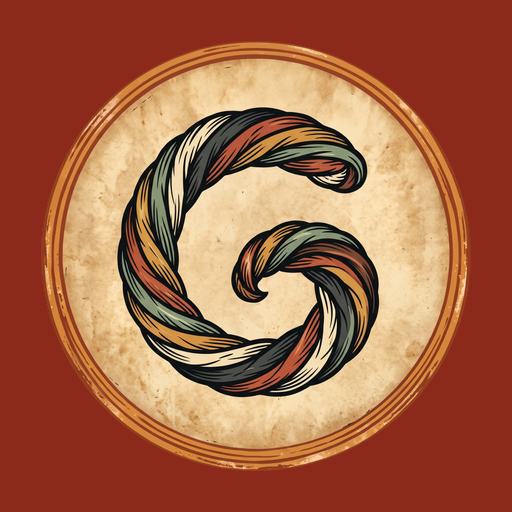
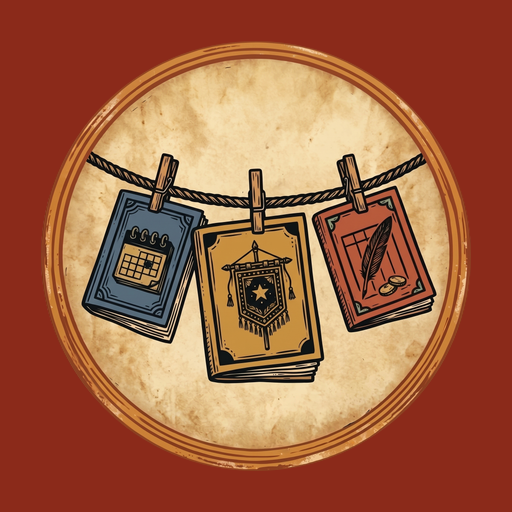
feat(pwa): icone PWA propre Organizador (blason Varal), bump 1.7.2

Changed region(s): [[0.1562, 0.1875, 0.875, 0.7812]]

diff --git a/src/index.css b/src/index.css
@@ -1,4 +1,4 @@
-/* O Girador Organizador - Feuille de styles principale v1.7.1 */
+/* O Girador Organizador - Feuille de styles principale v1.7.2 */
 @import "tailwindcss";
 
 @variant dark (&:where(.dark, .dark *, [data-theme="dark"], [data-theme="dark"] *));
@@ -12,7 +12,7 @@
 }
 
 :root {
-  --v-release-bust: '1.7.1';
+  --v-release-bust: '1.7.2';
   /* Mode Clair par défaut (Thème papier crème Cordel) */
   --cordel-bg: #f4ecd8;
   --color-cordel-bg: #f4ecd8;
